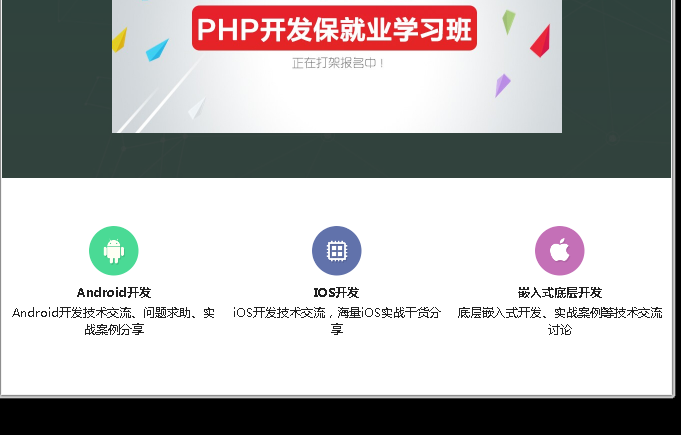
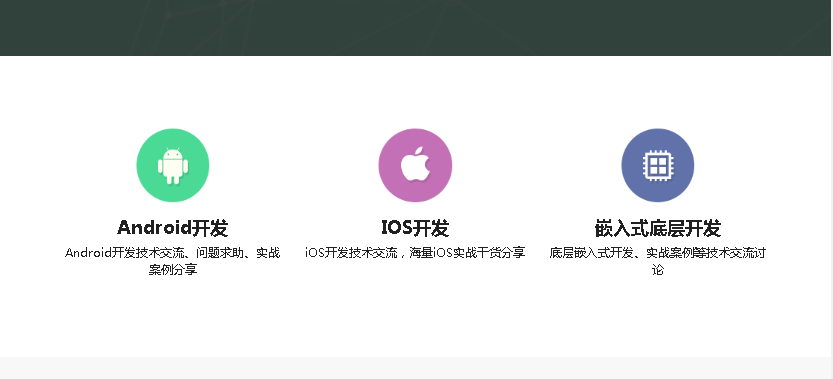
修改图片内容，修正页面container代码

diff --git a/SourceCode/maizi/index.html b/SourceCode/maizi/index.html
@@ -4,7 +4,7 @@
 		<meta charset="UTF-8">   
 		<meta http-equiv="x-ua-compatible" content="IE=Edge"> <!--IE8标准渲染模式-->
 		<meta name="viewport" content="width=device-width, initial-scale=1, user-scalable=no">
-		<title>学院官网</title>
+		<title>K-Cat学院官网</title>
 <!-- 引入 Bootstrap -->
 		<link href="http://cdn.static.runoob.com/libs/bootstrap/3.3.7/css/bootstrap.min.css" rel="stylesheet">
 <!-- jQuery (Bootstrap 的 JavaScript 插件需要引入 jQuery) -->
@@ -28,7 +28,7 @@
 		            <span class="icon-bar"></span>
 		        </button>
 	<!--logo-->
-		        <a class="navbar-brand" href="index.html">麦子学院</a>
+		        <a class="navbar-brand" href="index.html">K-Cat学院</a>
 		    </div>
 		    
 	<!-- 导航内容-->
@@ -36,7 +36,7 @@
 		        <ul class="nav navbar-nav navbar-right">
 		            <li><a href="#home">首页</a></li>
 		            <li><a href="#bbs">论坛</a></li>
-		            <li><a href="#">前端开发</a></li>
+		            <li><a href="#html5">前端开发</a></li>
 		            <li><a href="#">最新课程</a></li>
 		            <li><a href="#">移动APP</a></li>
 		            <li><a href="#">联系我们</a></li>
@@ -49,17 +49,19 @@
 <!--第一屏s-->
 		<section id="home">
 			<div class="lvjing">
-				<div class="row"> <!-- 添加删格系统-->
-					<div class="col-md-1"></div>   <!--用来占位置-->
-					<div class="col-md-10">
-						<h1>bootstrap实战课程等你来战！</h1>
-						<p>
-							本套课程适用于：1.WEB开发人员；2.网站维护人员、管理人员<br />
-							培训技能的目标：使用bootstrap框架快速构建响应式网页，颠覆传统WEB前端！
-						</p>
-						<img src="images/php.jpg" alt="php" class="img-responsive"/> <!--img-responsive让图片自适应-->
+				<div class="container">
+					<div class="row"> <!-- 添加删格系统-->
+						<div class="col-md-1"></div>   <!--用来占位置-->
+						<div class="col-md-10">
+							<h1>bootstrap实战课程等你来战！</h1>
+							<p>
+								本套课程适用于：1.WEB开发人员；2.网站维护人员、管理人员<br />
+								培训技能的目标：使用bootstrap框架快速构建响应式网页，颠覆传统WEB前端！
+							</p>
+							<img src="images/php.jpg" alt="php" class="img-responsive"/> <!--img-responsive让图片自适应-->
+						</div>
+						<div class="col-md-1"></div>
 					</div>
-					<div class="col-md-1"></div>
 				</div>
 			</div>
 		</section>
@@ -67,29 +69,53 @@
 
 <!--第二屏s-->
 		<section id="bbs">
-			<div class="col-md-4">
-				<a href="http://www.kemao666.cn" target="_blank">
-					<img src="images/a.png" class="img-responsive"/>
-					<h3>Android开发</h3>
-					<p>Android开发技术交流、问题求助、实战案例分享</p>
-				</a>
-			</div>
-			<div class="col-md-4">
-				<a href="http://www.kemao666.cn" target="_blank">
-					<img src="images/b.png" class="img-responsive"/>
-					<h3>IOS开发</h3>
-					<p>iOS开发技术交流，海量iOS实战干货分享</p>
-				</a>
-			</div>
-			<div class="col-md-4">
-				<a href="http://www.kemao666.cn" target="_blank">
-					<img src="images/i.png" class="img-responsive"/>
-					<h3>嵌入式底层开发</h3>
-					<p>底层嵌入式开发、实战案例等技术交流讨论</p>
-				</a>
+			<div class="container">
+				<div class="row">
+					<div class="col-md-4">
+						<a href="http://www.kemao666.cn" target="_blank">
+							<img src="images/a.png" class="img-responsive"/>
+							<h3>Android开发</h3>
+							<p>Android开发技术交流、问题求助、实战案例分享</p>
+						</a>
+					</div>
+					<div class="col-md-4">
+						<a href="http://www.kemao666.cn" target="_blank">
+							<img src="images/i.png" class="img-responsive"/>
+							<h3>IOS开发</h3>
+							<p>iOS开发技术交流，海量iOS实战干货分享</p>
+						</a>
+					</div>
+					<div class="col-md-4">
+						<a href="http://www.kemao666.cn" target="_blank">
+							<img src="images/b.png" class="img-responsive"/>
+							<h3>嵌入式底层开发</h3>
+							<p>底层嵌入式开发、实战案例等技术交流讨论</p>
+						</a>
+					</div>
+				</div>
 			</div>
 		</section>
 <!--第二屏e-->		
+	
+<!--第三屏s-->	
+		<section id="html5">
+			<div class="container">
+				<div class="col-md-6">
+					<h2>HTML5前端开发</h2>
+					<p>一线资深前端开发工程师倾情打造！助你完成普通程序员到优秀工程师的华丽升级！</p>
+					<p>使用HTML5与CSS3技术轻松实现设备自适应展示。</p>
+					<p>清晰明了的语义代码结构，更高的可读性、更利于页面维护的。</p>
+				</div>
+				<div class="col-md-6">
+					<img src="images/html5.jpg" class="img-responsive" />
+				</div>
+				
+			</div>
+			
+			
+		</section>
+<!--第三屏e-->	
+	
 	
 	</body>
 </html>

diff --git a/SourceCode/maizi/css/bootstrap-maizi.css b/SourceCode/maizi/css/bootstrap-maizi.css
@@ -86,3 +86,9 @@ body{
 #bbs h3{
 	font-weight: bold;
 }
+/*第三屏*/
+#html5{
+	background: #f8f8f8;
+	padding: 80px 0;
+}
+

diff --git a/doc/maizi.md b/doc/maizi.md
@@ -31,7 +31,7 @@ initial-scale:初试的缩放比例，user-scalable=no:禁止用户缩放比例
 		            <span class="icon-bar"></span>
 		        </button>
 	<!--logo-->
-		        <a class="navbar-brand" href="index.html">麦子学院</a>
+		        <a class="navbar-brand" href="index.html">K-Cat学院</a>
 		    </div>
 		    
 	<!-- 导航内容-->
@@ -91,17 +91,19 @@ initial-scale:初试的缩放比例，user-scalable=no:禁止用户缩放比例
 <!--第一屏s-->
 		<section id="home">
 			<div class="lvjing">
-				<div class="row"> <!-- 添加删格系统-->
-					<div class="col-md-1"></div>   <!--用来占位置-->
-					<div class="col-md-10">
-						<h1>bootstrap实战课程等你来战！</h1>
-						<p>
-							本套课程适用于：1.WEB开发人员；2.网站维护人员、管理人员<br />
-							培训技能的目标：使用bootstrap框架快速构建响应式网页，颠覆传统WEB前端！
-						</p>
-						<img src="images/php.jpg" alt="php" class="img-responsive"/> <!--img-responsive让图片自适应-->
+				<div class="container">
+					<div class="row"> <!-- 添加删格系统-->
+						<div class="col-md-1"></div>   <!--用来占位置-->
+						<div class="col-md-10">
+							<h1>bootstrap实战课程等你来战！</h1>
+							<p>
+								本套课程适用于：1.WEB开发人员；2.网站维护人员、管理人员<br />
+								培训技能的目标：使用bootstrap框架快速构建响应式网页，颠覆传统WEB前端！
+							</p>
+							<img src="images/php.jpg" alt="php" class="img-responsive"/> <!--img-responsive让图片自适应-->
+						</div>
+						<div class="col-md-1"></div>
 					</div>
-					<div class="col-md-1"></div>
 				</div>
 			</div>
 		</section>
@@ -155,30 +157,35 @@ initial-scale:初试的缩放比例，user-scalable=no:禁止用户缩放比例
 ### 1.结构  
 1. 添加img-responsive可能会导致图片错位，所以需要添加margin:0 auto;居中  
 2. 排版一般用h3做标题，用p做内容，用br换行  
+3. 嵌套关系：最外层是section--container--row--col
 
 ```html
 <!--第二屏s-->
 		<section id="bbs">
-			<div class="col-md-4">
-				<a href="http://www.kemao666.cn" target="_blank">
-					<img src="images/a.png" class="img-responsive"/>
-					<h3>Android开发</h3>
-					<p>Android开发技术交流、问题求助、实战案例分享</p>
-				</a>
-			</div>
-			<div class="col-md-4">
-				<a href="http://www.kemao666.cn" target="_blank">
-					<img src="images/b.png" class="img-responsive"/>
-					<h3>IOS开发</h3>
-					<p>iOS开发技术交流，海量iOS实战干货分享</p>
-				</a>
-			</div>
-			<div class="col-md-4">
-				<a href="http://www.kemao666.cn" target="_blank">
-					<img src="images/i.png" class="img-responsive"/>
-					<h3>嵌入式底层开发</h3>
-					<p>底层嵌入式开发、实战案例等技术交流讨论</p>
-				</a>
+			<div class="container">
+				<div class="row">
+					<div class="col-md-4">
+						<a href="http://www.kemao666.cn" target="_blank">
+							<img src="images/a.png" class="img-responsive"/>
+							<h3>Android开发</h3>
+							<p>Android开发技术交流、问题求助、实战案例分享</p>
+						</a>
+					</div>
+					<div class="col-md-4">
+						<a href="http://www.kemao666.cn" target="_blank">
+							<img src="images/i.png" class="img-responsive"/>
+							<h3>IOS开发</h3>
+							<p>iOS开发技术交流，海量iOS实战干货分享</p>
+						</a>
+					</div>
+					<div class="col-md-4">
+						<a href="http://www.kemao666.cn" target="_blank">
+							<img src="images/b.png" class="img-responsive"/>
+							<h3>嵌入式底层开发</h3>
+							<p>底层嵌入式开发、实战案例等技术交流讨论</p>
+						</a>
+					</div>
+				</div>
 			</div>
 		</section>
 <!--第二屏e-->	
